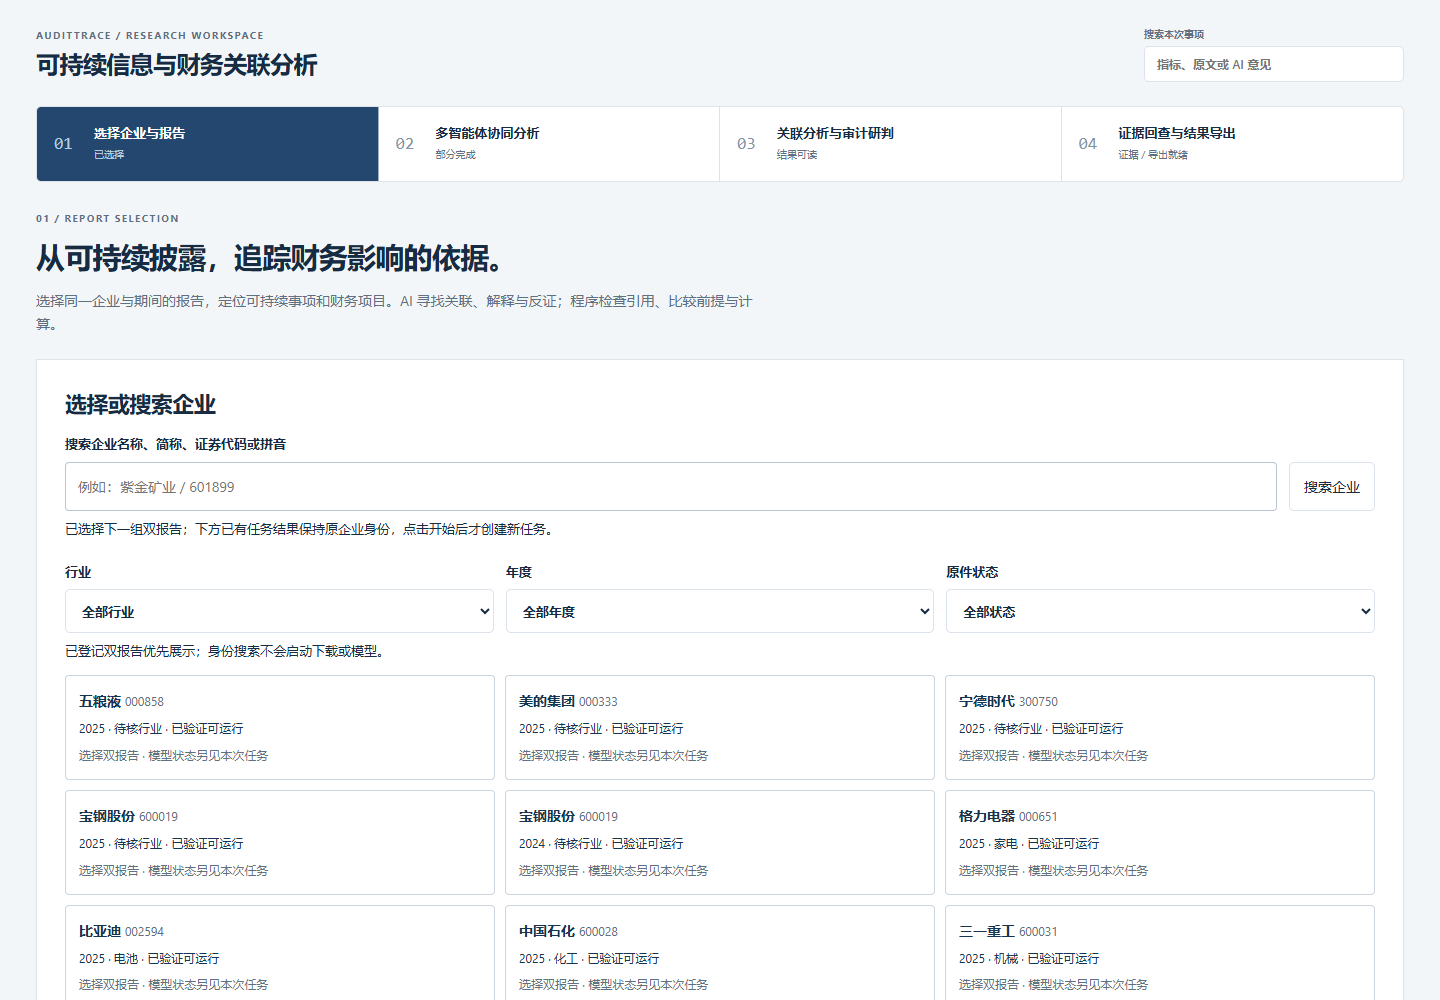
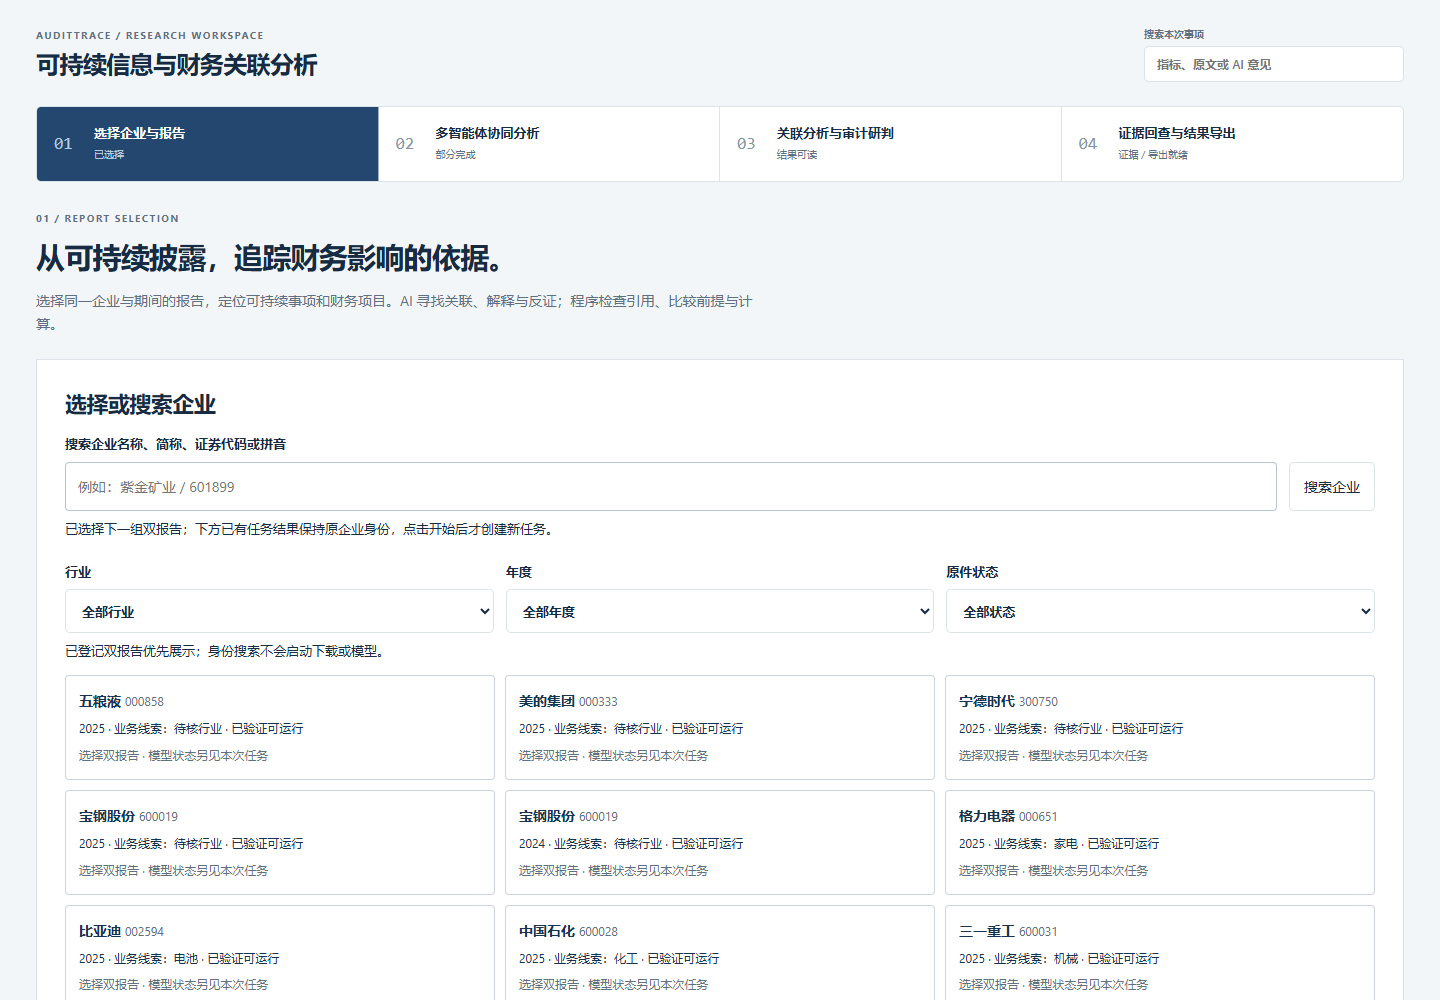
test(connectivity): separate offline financial contract from source acceptance

diff --git a/backend/tests/test_financial_pipeline.py b/backend/tests/test_financial_pipeline.py
@@ -20,6 +20,7 @@ def _docs():
 
 
 def test_calculation_only_run_carries_financial_layer_and_execution_receipt():
+    _docs()  # 真实原件集成测试沿用缓存前提，不把 CI 网络故障当作代码结果。
     run = run_pipeline(ROOT, RunRequest(pair_id="600019-2025", mode="calculation_only",
                                         topics=["research", "environment", "intensity"]))
     assert run.model_status == "not_requested"
@@ -35,3 +36,32 @@ def test_calculation_only_run_carries_financial_layer_and_execution_receipt():
     # 结果合同版本与新增字段同时存在，旧字段未被替换。
     assert run.schema_version == "connectivity_v5"
     assert run.checks and run.overview["relation_total"] == len(run.checks)
+
+
+def test_synthetic_calculation_pipeline_keeps_financial_contract(monkeypatch, tmp_path):
+    """离线合成合同：真实运行流水线与财务层，不代表任何企业的验收。"""
+    from backend.app import connectivity_pipeline as pipeline
+    from backend.app.connectivity_financial_bridge import build
+    from backend.app.connectivity_schemas import SearchCoverage
+    from backend.tests.test_financial_bridge import _docs as synthetic_docs, _pages
+
+    docs = synthetic_docs()
+    monkeypatch.setenv("AUDITTRACE_DEMO_USE_EXTERNAL_MODEL", "false")
+    monkeypatch.setattr(pipeline, "load_registry", lambda root: docs)
+    monkeypatch.setattr(pipeline, "extract_document", lambda root, doc, *args: (
+        [], SearchCoverage(document_id=doc.document_id, total_pages=10,
+                           parsed_pages=10, searched_pages=list(range(1, 11))), []))
+    monkeypatch.setattr(pipeline, "report_industry_context", lambda *args: {"industry": "steel"})
+    monkeypatch.setattr(pipeline, "build_financial_bridge", lambda root, run:
+                        build(None, documents=run.documents, pages=_pages(), industry="steel"))
+    monkeypatch.setattr(pipeline, "call_role", lambda *args, **kwargs:
+                        pytest.fail("只计算合同不得调用模型"))
+    run = pipeline.run_pipeline(tmp_path, RunRequest(pair_id="TEST-2025", mode="calculation_only"))
+    assert run.model_status == "not_requested" and not run.provider_calls
+    assert run.financial_claims and run.financial_nodes and run.financial_edges
+    assert run.impact_graph["stats"]["financial"] >= 1
+    assert run.revision_loop["summary"]["refuted"] >= 1
+    assert run.financial_scenario["available"] is True
+    assert run.evidence_plan["primary_action"] and run.evidence_plan["best_path"]
+    assert run.schema_version == "connectivity_v5"
+    assert {d.company_id for d in run.documents} == {"TEST"}
